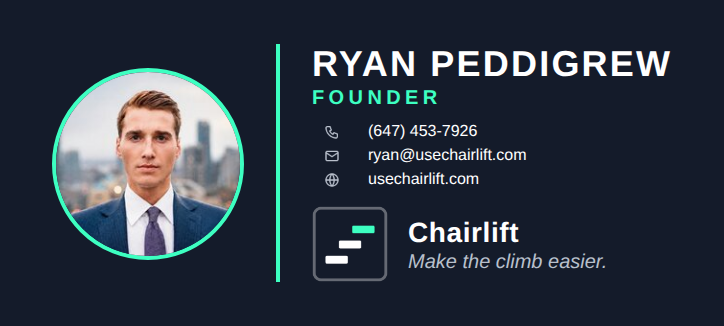
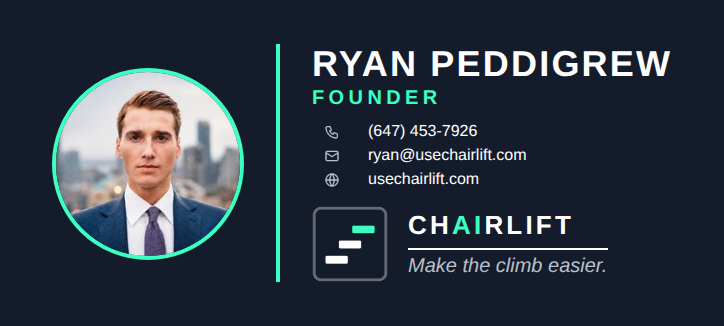
Signature: CHAIRLIFT in capitals with Neon AI, thin separator above slogan
Claude-Session: https://claude.ai/code/session_01PqypBjMi1UyX8TYwUtHGTE

Changed region(s): [[0.547, 0.6442, 0.8508, 0.8589]]

diff --git a/brand/index.html b/brand/index.html
@@ -173,7 +173,7 @@
       <div class="dark-demo"><h3 style="font-size:15px;letter-spacing:.04em">Key word · Ink background</h3><p style="font-size:22px;font-weight:800;text-transform:uppercase;margin-top:8px">Journey to the <span class="n">top</span>.</p><p style="color:var(--fog);font-size:15px;margin-top:8px">Neon text, one word per title.</p></div>
     </div>
     <div class="do-dont" style="margin-top:20px">
-      <div class="do"><h3>Where Neon is used</h3><ul><li>The up arrow after "Make the climb easier"</li><li>One key word in a title (run itself, start, top, practice, people, hours)</li><li>The check mark next to "Built inside the tools you already use"</li><li>Link underlines</li><li>Small numbers and labels on Ink (step numbers, "After")</li><li>Email signatures: the headshot ring, divider line and "FOUNDER" label in both versions (the Neon "FOUNDER" on white is a small, bold exception to the white-background text rule below); the logo's top step</li><li>The top step of the logo</li></ul></div>
+      <div class="do"><h3>Where Neon is used</h3><ul><li>The up arrow after "Make the climb easier"</li><li>One key word in a title (run itself, start, top, practice, people, hours)</li><li>The check mark next to "Built inside the tools you already use"</li><li>Link underlines</li><li>Small numbers and labels on Ink (step numbers, "After")</li><li>Email signatures: the headshot ring, divider line and "FOUNDER" label in both versions (the Neon "FOUNDER" on white is a small, bold exception to the white-background text rule below); the "AI" in CHAIRLIFT in email signatures; the logo's top step</li><li>The top step of the logo</li></ul></div>
       <div class="dont"><h3>Where Neon is not used</h3><ul><li>The short bars above titles (these are solid Ink, or white on Ink)</li><li>Body text, buttons or large areas</li><li>As text colour on white backgrounds</li><li>More than one accent word per title</li></ul></div>
     </div>
   </div>
@@ -243,6 +243,7 @@
   <div class="wrap">
     <div class="sec-head"><h2>Change log</h2><p>Every brand decision, newest first.</p></div>
     <ul class="log">
+      <li><b>Oct 4, 2026</b>: Signature wordmark set in capitals as CH<b>AI</b>RLIFT with the "AI" in Neon (no italics, no underline), and a thin separator line between the company name and the slogan (Midnight Ink on White, white on Ink).</li>
       <li><b>Oct 4, 2026</b>: Signature: divider line Neon on White; on Ink the name is white and "FOUNDER" Neon. Phone, email and website text reduced to 8px with 8px icons sitting right beside the text, indented slightly from the name. Space above and below the headshot now 12px.</li>
       <li><b>Oct 4, 2026</b>: Signature tightened again: contact text and icons smaller, logo block slightly smaller, divider line thinner (3px to 2px). Space above and below the headshot cut from 21px to 16px. White version: "FOUNDER" now Neon.</li>
       <li><b>Oct 4, 2026</b>: Signature colours revised again. White version: Neon headshot ring; Midnight Ink name, "FOUNDER" and divider line (no Neon text on white). Ink version: Neon name, divider line and headshot ring; white "FOUNDER". Phone written as (647) 453-7926. "Teal" and "mint" are both shorthand for Neon.</li>

diff --git a/brand/email-signature-ink.html b/brand/email-signature-ink.html
@@ -27,8 +27,8 @@
               <tr>
                 <td style="vertical-align:middle;padding:0 10px 0 0;"><a href="https://usechairlift.com"><img src="https://usechairlift.com/images/email-logo-dark.png" width="38" height="38" alt="Chairlift" style="display:block;width:38px;height:38px;border:0;"></a></td>
                 <td style="vertical-align:middle;">
-                  <p style="margin:0;font-size:14px;line-height:18px;font-weight:bold;letter-spacing:0.3px;color:#FFFFFF;">Chairlift</p>
-                  <p style="margin:1px 0 0;font-size:10px;line-height:12px;font-style:italic;color:#B9C0CC;">Make the climb easier.</p>
+                  <p style="margin:0;font-size:13px;line-height:17px;font-weight:bold;letter-spacing:1.6px;color:#FFFFFF;">CH<span style="color:#3DFFC1;">AI</span>RLIFT</p>
+                  <p style="margin:3px 0 0;padding-top:3px;border-top:1px solid #FFFFFF;font-size:10px;line-height:12px;font-style:italic;color:#B9C0CC;">Make the climb easier.</p>
                 </td>
               </tr>
             </table>

diff --git a/brand/email-signature-white.html b/brand/email-signature-white.html
@@ -27,8 +27,8 @@
               <tr>
                 <td style="vertical-align:middle;padding:0 10px 0 0;"><a href="https://usechairlift.com"><img src="https://usechairlift.com/images/email-logo.png" width="38" height="38" alt="Chairlift" style="display:block;width:38px;height:38px;border:0;"></a></td>
                 <td style="vertical-align:middle;">
-                  <p style="margin:0;font-size:14px;line-height:18px;font-weight:bold;letter-spacing:0.3px;color:#141B2A;">Chairlift</p>
-                  <p style="margin:1px 0 0;font-size:10px;line-height:12px;font-style:italic;color:#55595F;">Make the climb easier.</p>
+                  <p style="margin:0;font-size:13px;line-height:17px;font-weight:bold;letter-spacing:1.6px;color:#141B2A;">CH<span style="color:#3DFFC1;">AI</span>RLIFT</p>
+                  <p style="margin:3px 0 0;padding-top:3px;border-top:1px solid #141B2A;font-size:10px;line-height:12px;font-style:italic;color:#55595F;">Make the climb easier.</p>
                 </td>
               </tr>
             </table>

diff --git a/tools/signature.py b/tools/signature.py
@@ -14,6 +14,7 @@ def sig(dark):
     namec = "#FFFFFF" if dark else "#141B2A"
     role = "#3DFFC1"
     tag = "#B9C0CC" if dark else "#55595F"
+    sep = "#FFFFFF" if dark else "#141B2A"
     logo = "email-logo-dark.png" if dark else "email-logo.png"
     pad = "22px 26px" if dark else "0"
     box = (f'bgcolor="{bg}" style="border-collapse:collapse;background:{bg};font-family:{FONT};"'
@@ -54,8 +55,8 @@ def sig(dark):
               <tr>
                 <td style="vertical-align:middle;padding:0 10px 0 0;"><a href="https://usechairlift.com"><img src="{BASE}/{logo}" width="38" height="38" alt="Chairlift" style="display:block;width:38px;height:38px;border:0;"></a></td>
                 <td style="vertical-align:middle;">
-                  <p style="margin:0;font-size:14px;line-height:18px;font-weight:bold;letter-spacing:0.3px;color:{text};">Chairlift</p>
-                  <p style="margin:1px 0 0;font-size:10px;line-height:12px;font-style:italic;color:{tag};">Make the climb easier.</p>
+                  <p style="margin:0;font-size:13px;line-height:17px;font-weight:bold;letter-spacing:1.6px;color:{text};">CH<span style="color:#3DFFC1;">AI</span>RLIFT</p>
+                  <p style="margin:3px 0 0;padding-top:3px;border-top:1px solid {sep};font-size:10px;line-height:12px;font-style:italic;color:{tag};">Make the climb easier.</p>
                 </td>
               </tr>
             </table>
